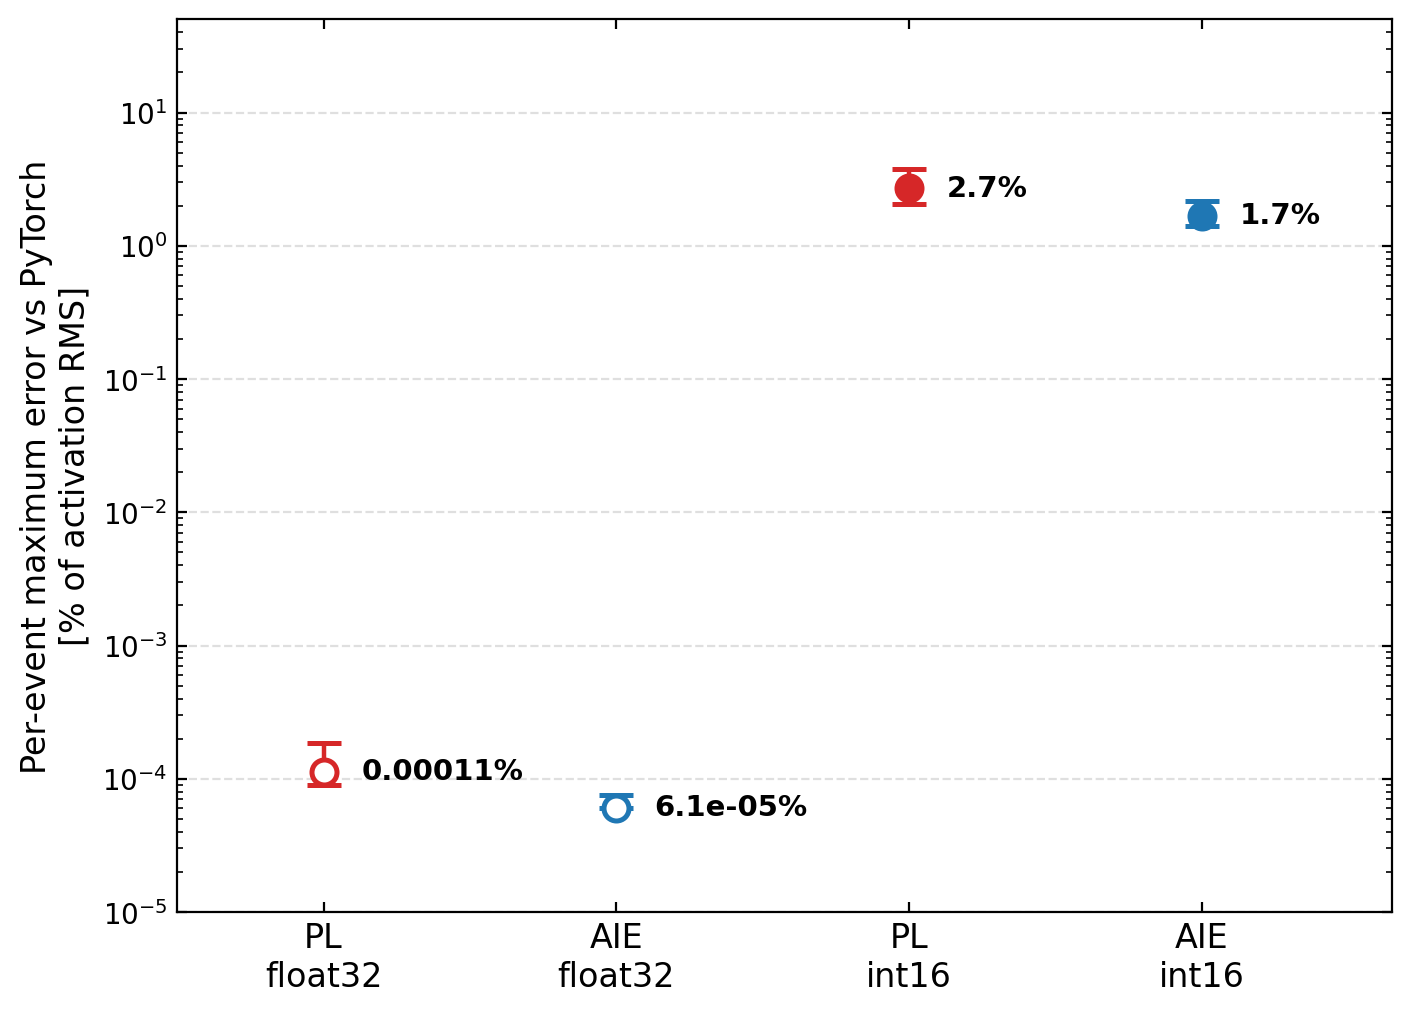
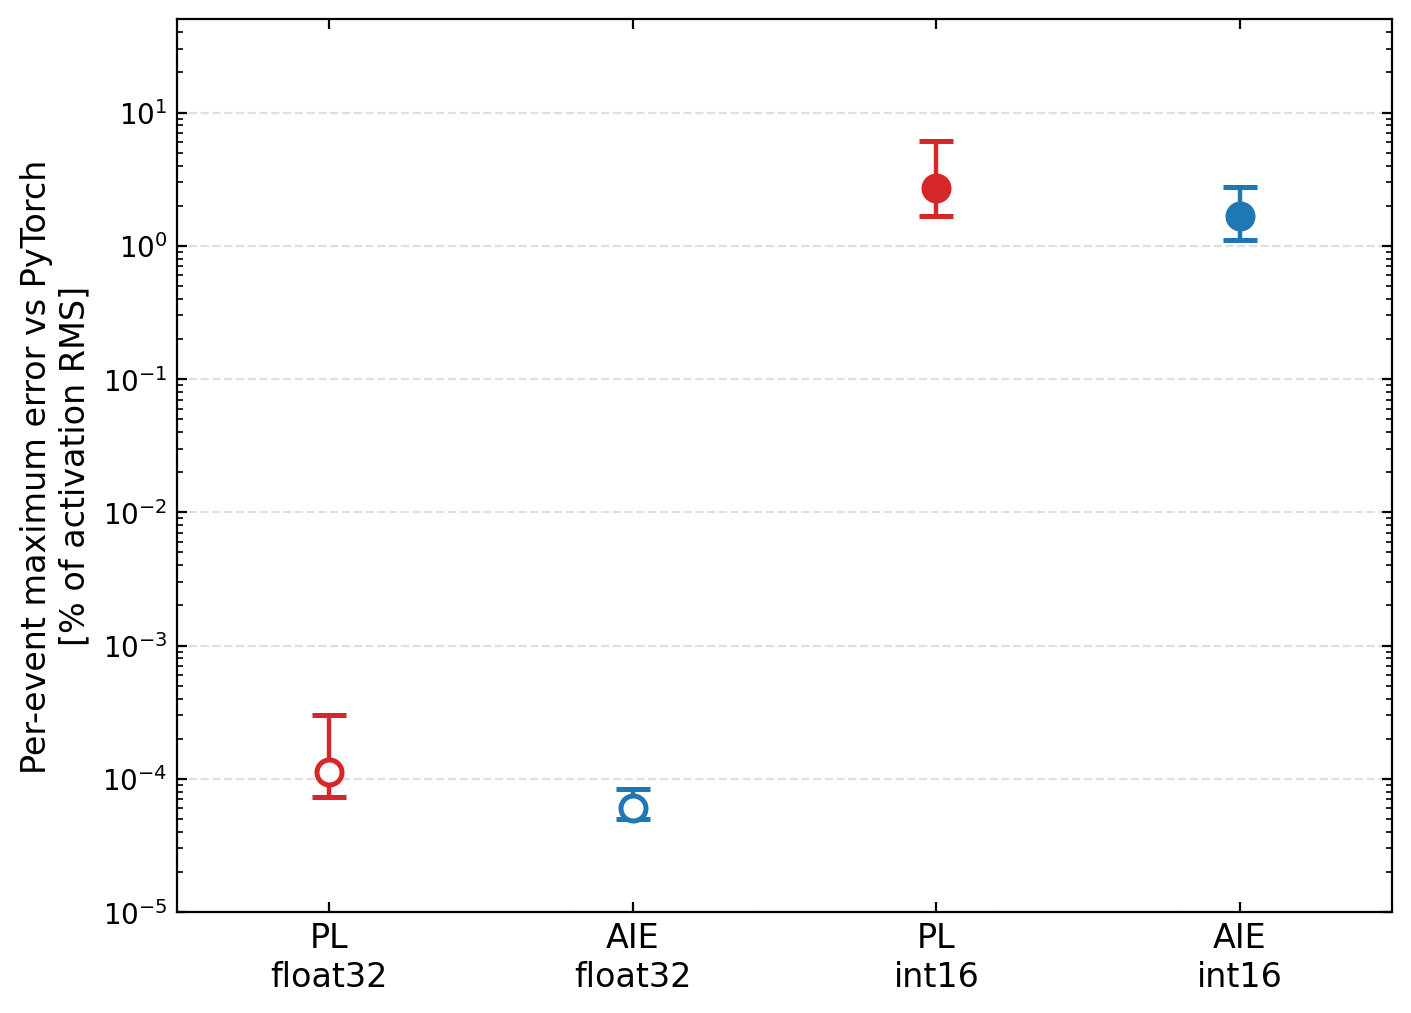
figs: validation summary with 95% interval bars, no point labels

diff --git a/scripts/plot_validation_summary.py b/scripts/plot_validation_summary.py
@@ -2,7 +2,7 @@
 """Validation summary: per-event max error vs PyTorch for the obj
 self-attention block output, four builds of the SAME source -- PL and AIE,
 each in float32 (unquantized) and int16 (deployed). Median with
-16th-84th percentile error bars.
+95% interval error bars.
 
 Data:
   PL  -- float_stage_check dumps (fx/flt_stage3.bin) vs torch_obj100.npy
@@ -55,19 +55,17 @@ groups = [
 fig, ax = plt.subplots(figsize=(7.2, 5.2))
 for gi, (label, vals, color, fill) in enumerate(groups):
     med = np.median(vals)
-    lo, hi = np.percentile(vals, [16, 84])
+    lo, hi = np.percentile(vals, [2.5, 97.5])
     ax.errorbar(gi, med, yerr=[[med - lo], [hi - med]],
                 fmt="o", ms=9, capsize=6, capthick=1.6, elinewidth=1.6,
                 color=color, markerfacecolor=(color if fill == "full" else "white"),
                 markeredgecolor=color, markeredgewidth=1.8, zorder=3)
-    ax.annotate(f"{med:.2g}%", (gi + 0.13, med), va="center", ha="left",
-                fontsize=10.5, weight="bold")
 
 ax.set_yscale("log")
 ax.set_ylim(1e-5, 50)
 ax.set_xticks(range(len(groups)))
 ax.set_xticklabels([g[0] for g in groups], fontsize=12)
-ax.set_xlim(-0.5, len(groups) - 0.35)
+ax.set_xlim(-0.5, len(groups) - 0.5)
 ax.set_ylabel("Per-event maximum error vs PyTorch\n[% of activation RMS]",
               fontsize=12)
 ax.grid(axis="y", ls="--", alpha=0.4)
@@ -80,7 +78,7 @@ fig.savefig(out, dpi=200, bbox_inches="tight")
 fig.savefig(out.replace(".png", ".pdf"), bbox_inches="tight")
 print("saved", out)
 for label, vals, *_ in groups:
-    lo, hi = np.percentile(vals, [16, 84])
+    lo, hi = np.percentile(vals, [2.5, 97.5])
     print(f"{label.replace(chr(10),' '):14s} N={len(vals):3d}  "
-          f"median {np.median(vals):.3g}%  16-84% [{lo:.3g}, {hi:.3g}]  "
+          f"median {np.median(vals):.3g}%  95% [{lo:.3g}, {hi:.3g}]  "
           f"max {vals.max():.3g}%")
